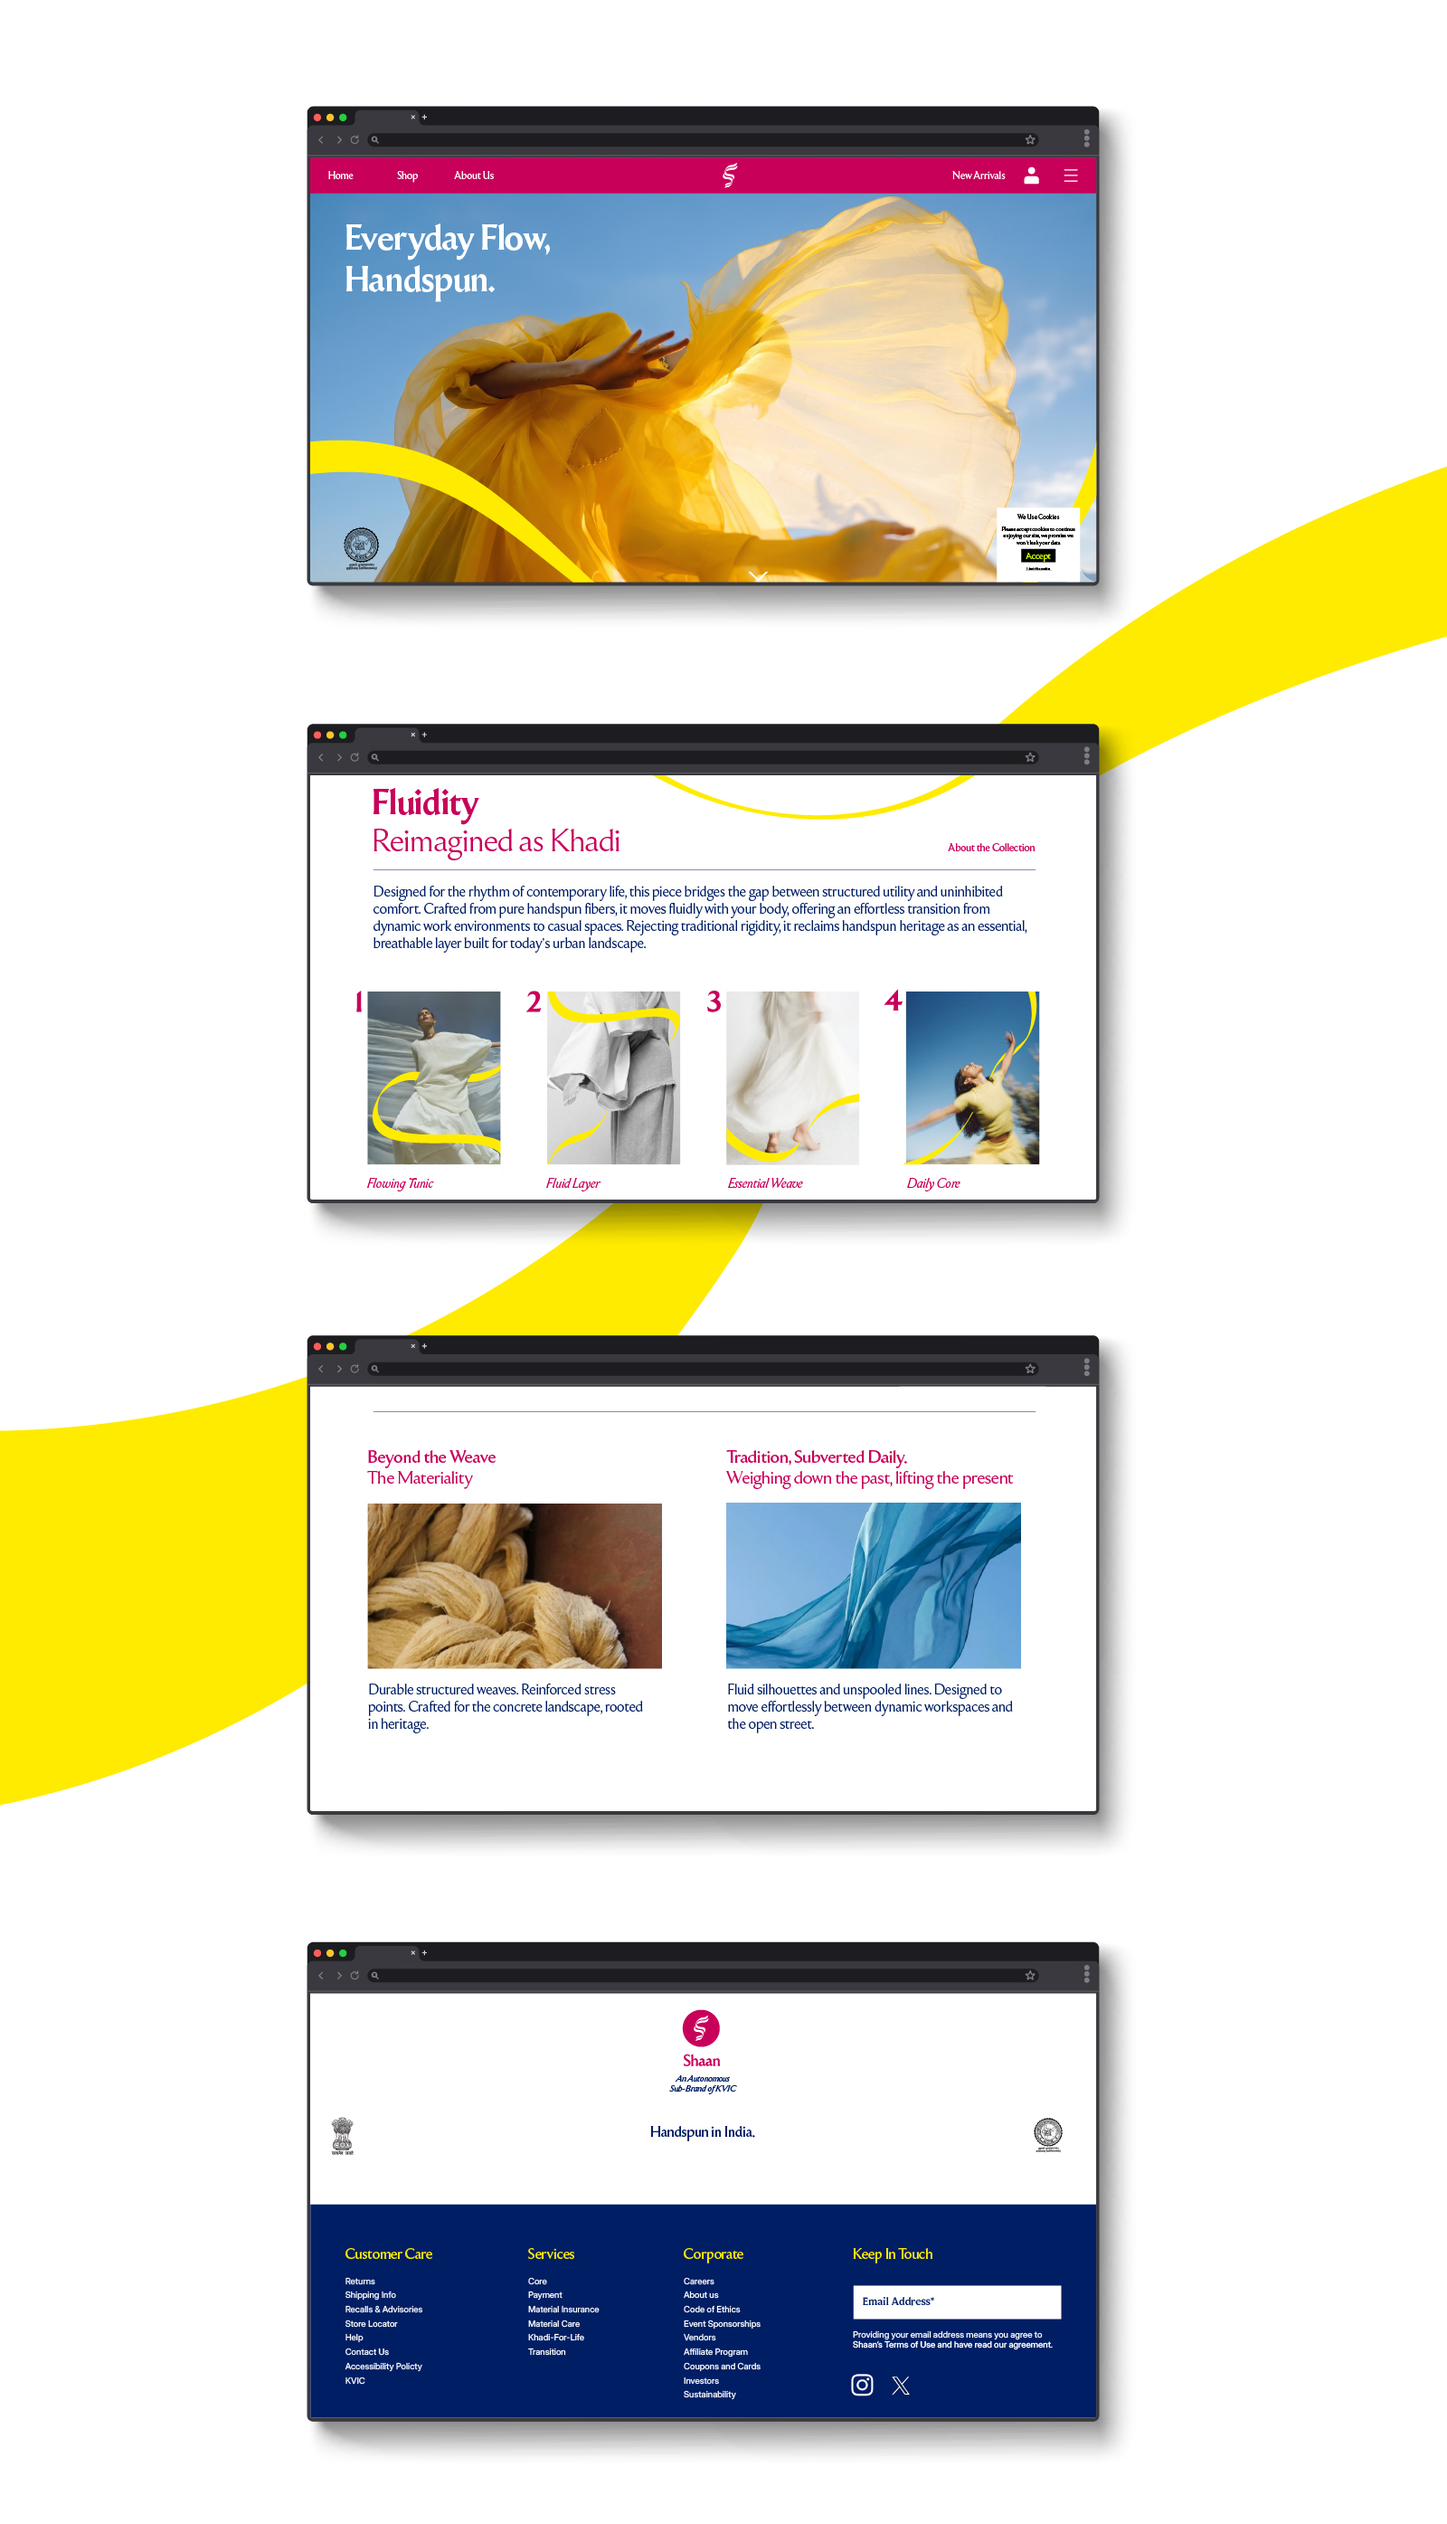
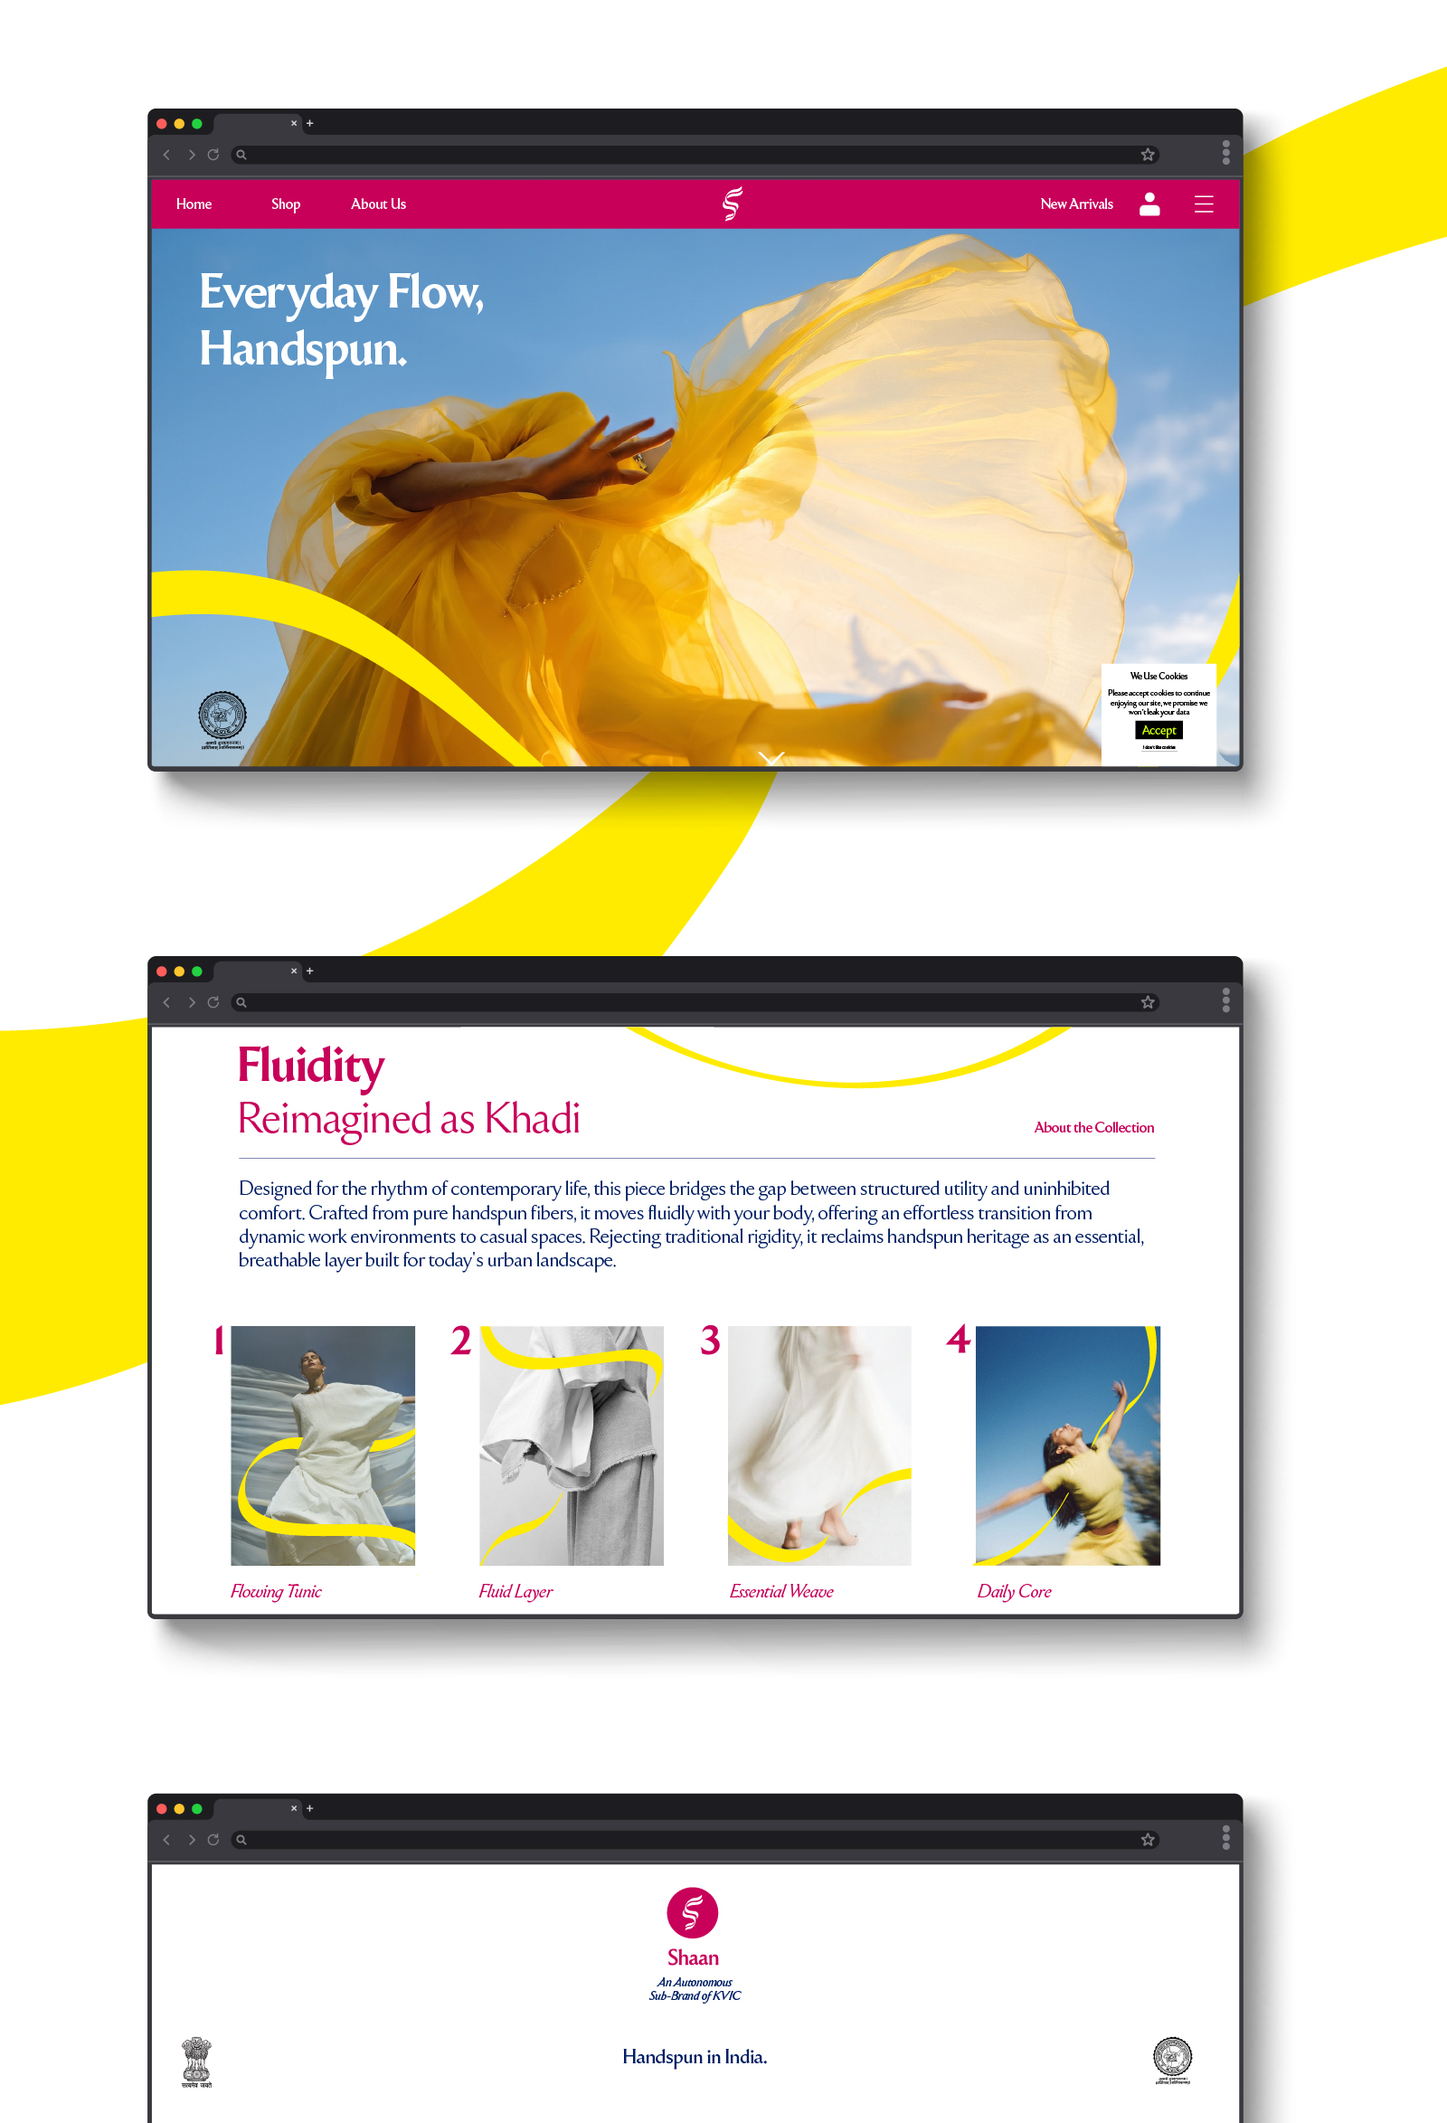
fixed shaan

diff --git a/content/shaan/_index.md b/content/shaan/_index.md
@@ -6,10 +6,12 @@ template = "project-light.html"
 <!-- <img width="100%" src="/img/shaan/0.png" alt="" /></a> <br>  -->
 
 
-<img width="100%" src="/img/shaan/1.jpg" alt="" /></a> 
 
 #### Rebuilding Handspun
 This identity reimagines the handspun ecosystem from the ground up. Stripping away the expected earthy aesthetics, we built a design system anchored in structural typography, high-contrast color, and raw minimalism. From tactile garment tags to digital touchpoints, the execution completely redefines Khadi for today's ambitious youth. <br>
+
+<img width="100%" src="/img/shaan/1.jpg" alt="" /></a> 
+
 
 <img width="100%" src="/img/shaan/2.jpg" alt="" /></a>  <br> <br>
 
@@ -17,8 +19,13 @@ This identity reimagines the handspun ecosystem from the ground up. Stripping aw
 We deliberately subvert the dull, earthy expectations of sustainable fashion by electrifying heritage shades—Turmeric Yellow, Indigo, and Gulaal—into sharp, confident statements of everyday expression. <br> <br> <br> <br>
 <img width="100%" src="/img/shaan/3.jpg" alt="" /></a>  <br> 
 
+
 #### Fluid Lines. Sharp Expression.
 Confident, sharp, and unapologetically non-traditional. Our typography mirrors the effortless flow of the Shaan's symbol, using crisp, flared terminals of Ceraph to bridge fluid movement with aggressive, structural clarity. <br> <br> <br> <br>
+<img width="100%" src="/img/shaan/6.jpg" alt="" /></a>   <br> <br>
+<img width="100%" src="/img/shaan/7.jpg" alt="" /></a>   
+
+
 <img width="100%" src="/img/shaan/4.jpg" alt="" /></a>   
 <img width="100%" src="/img/shaan/5.jpg" alt="" /></a>  
 
